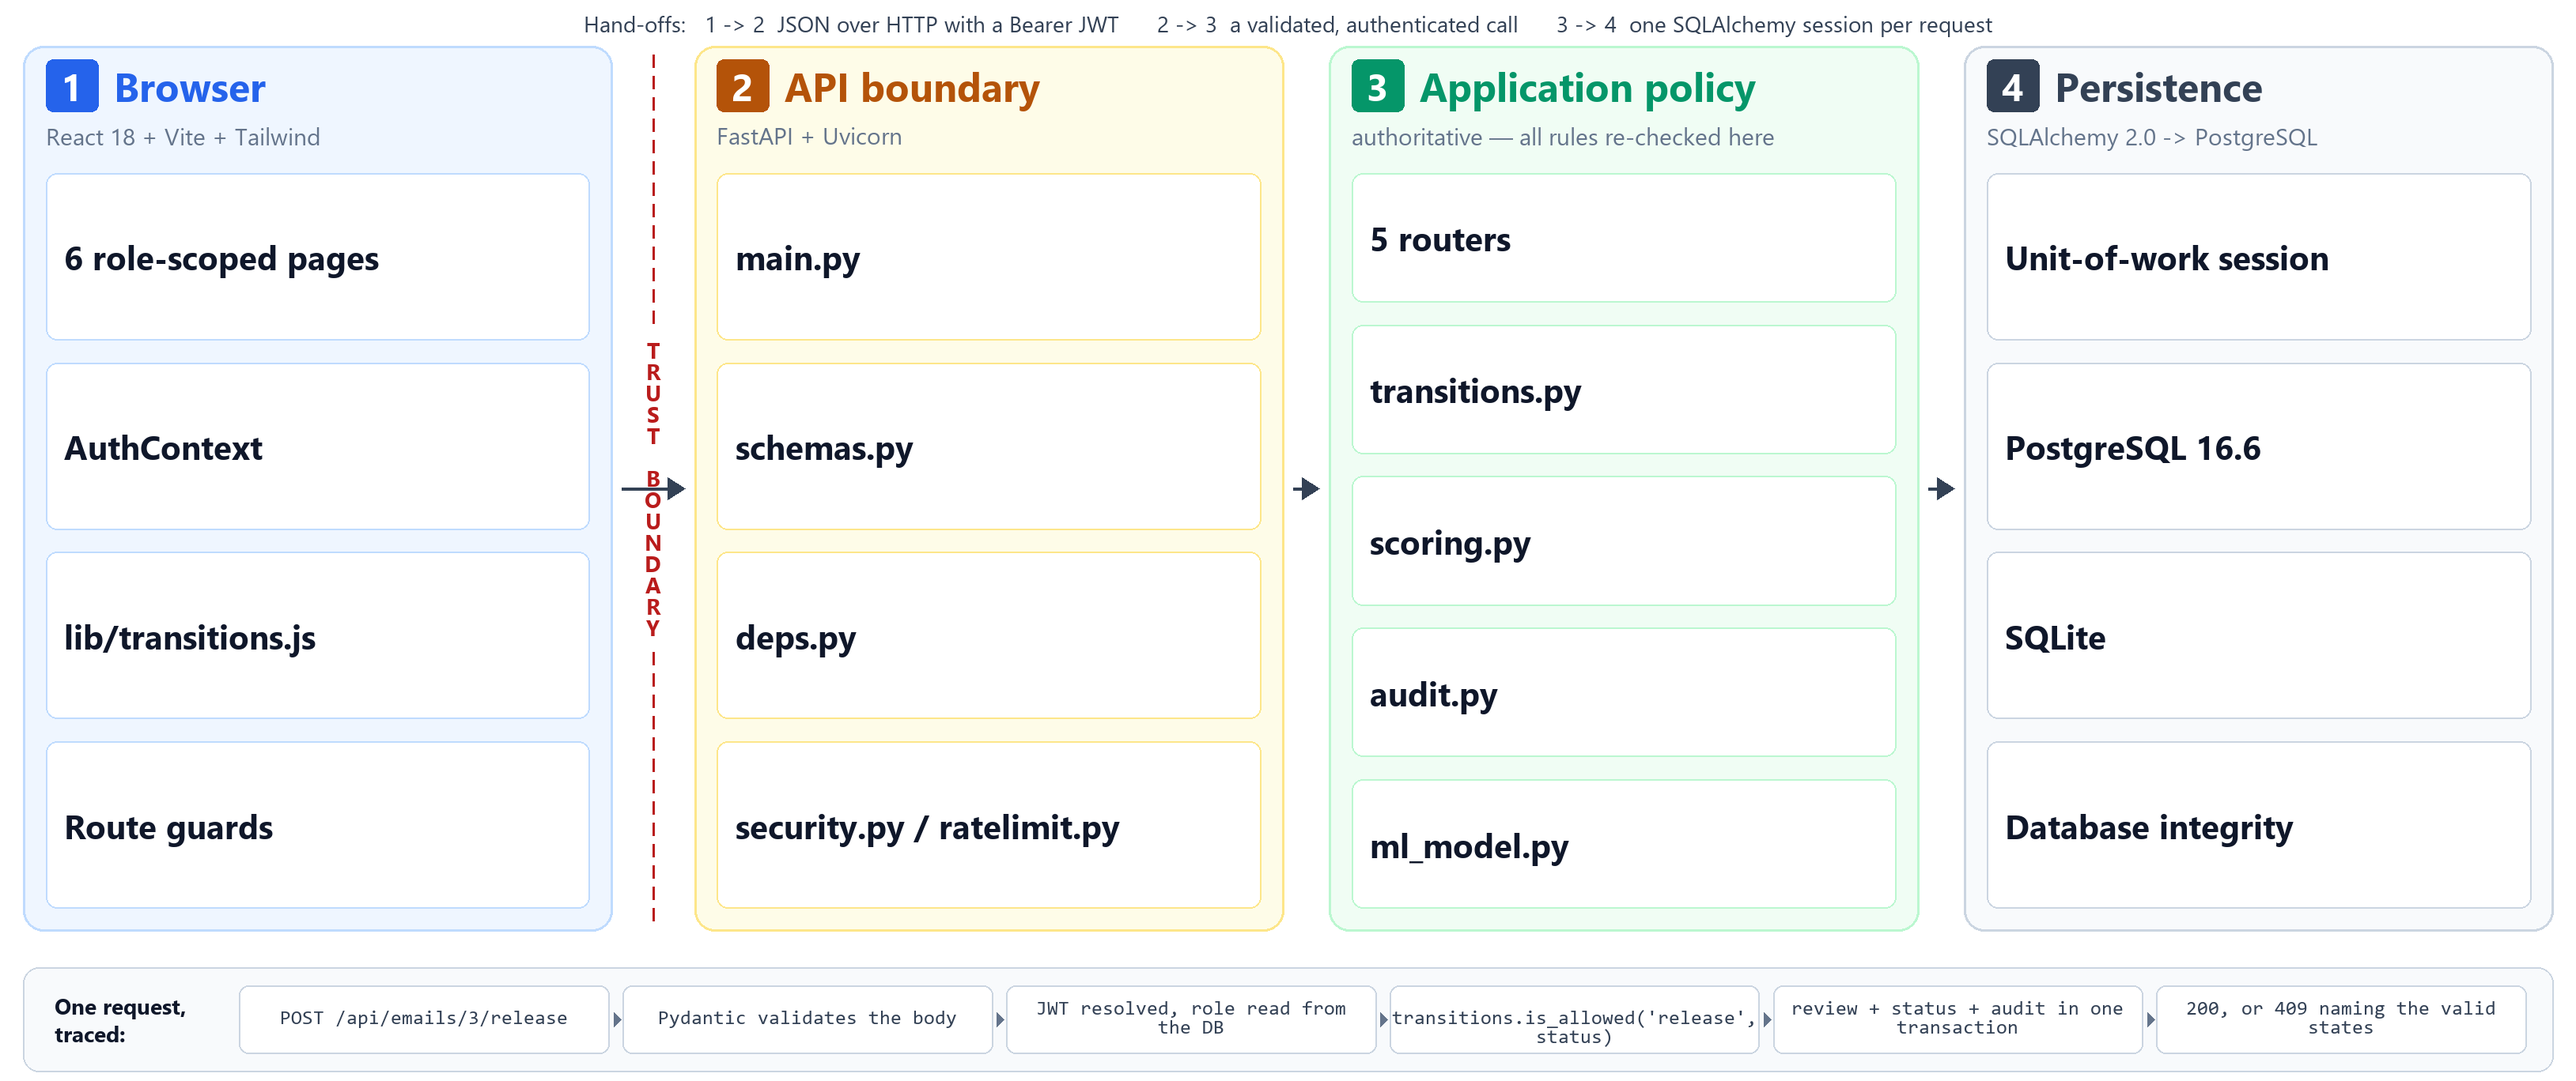
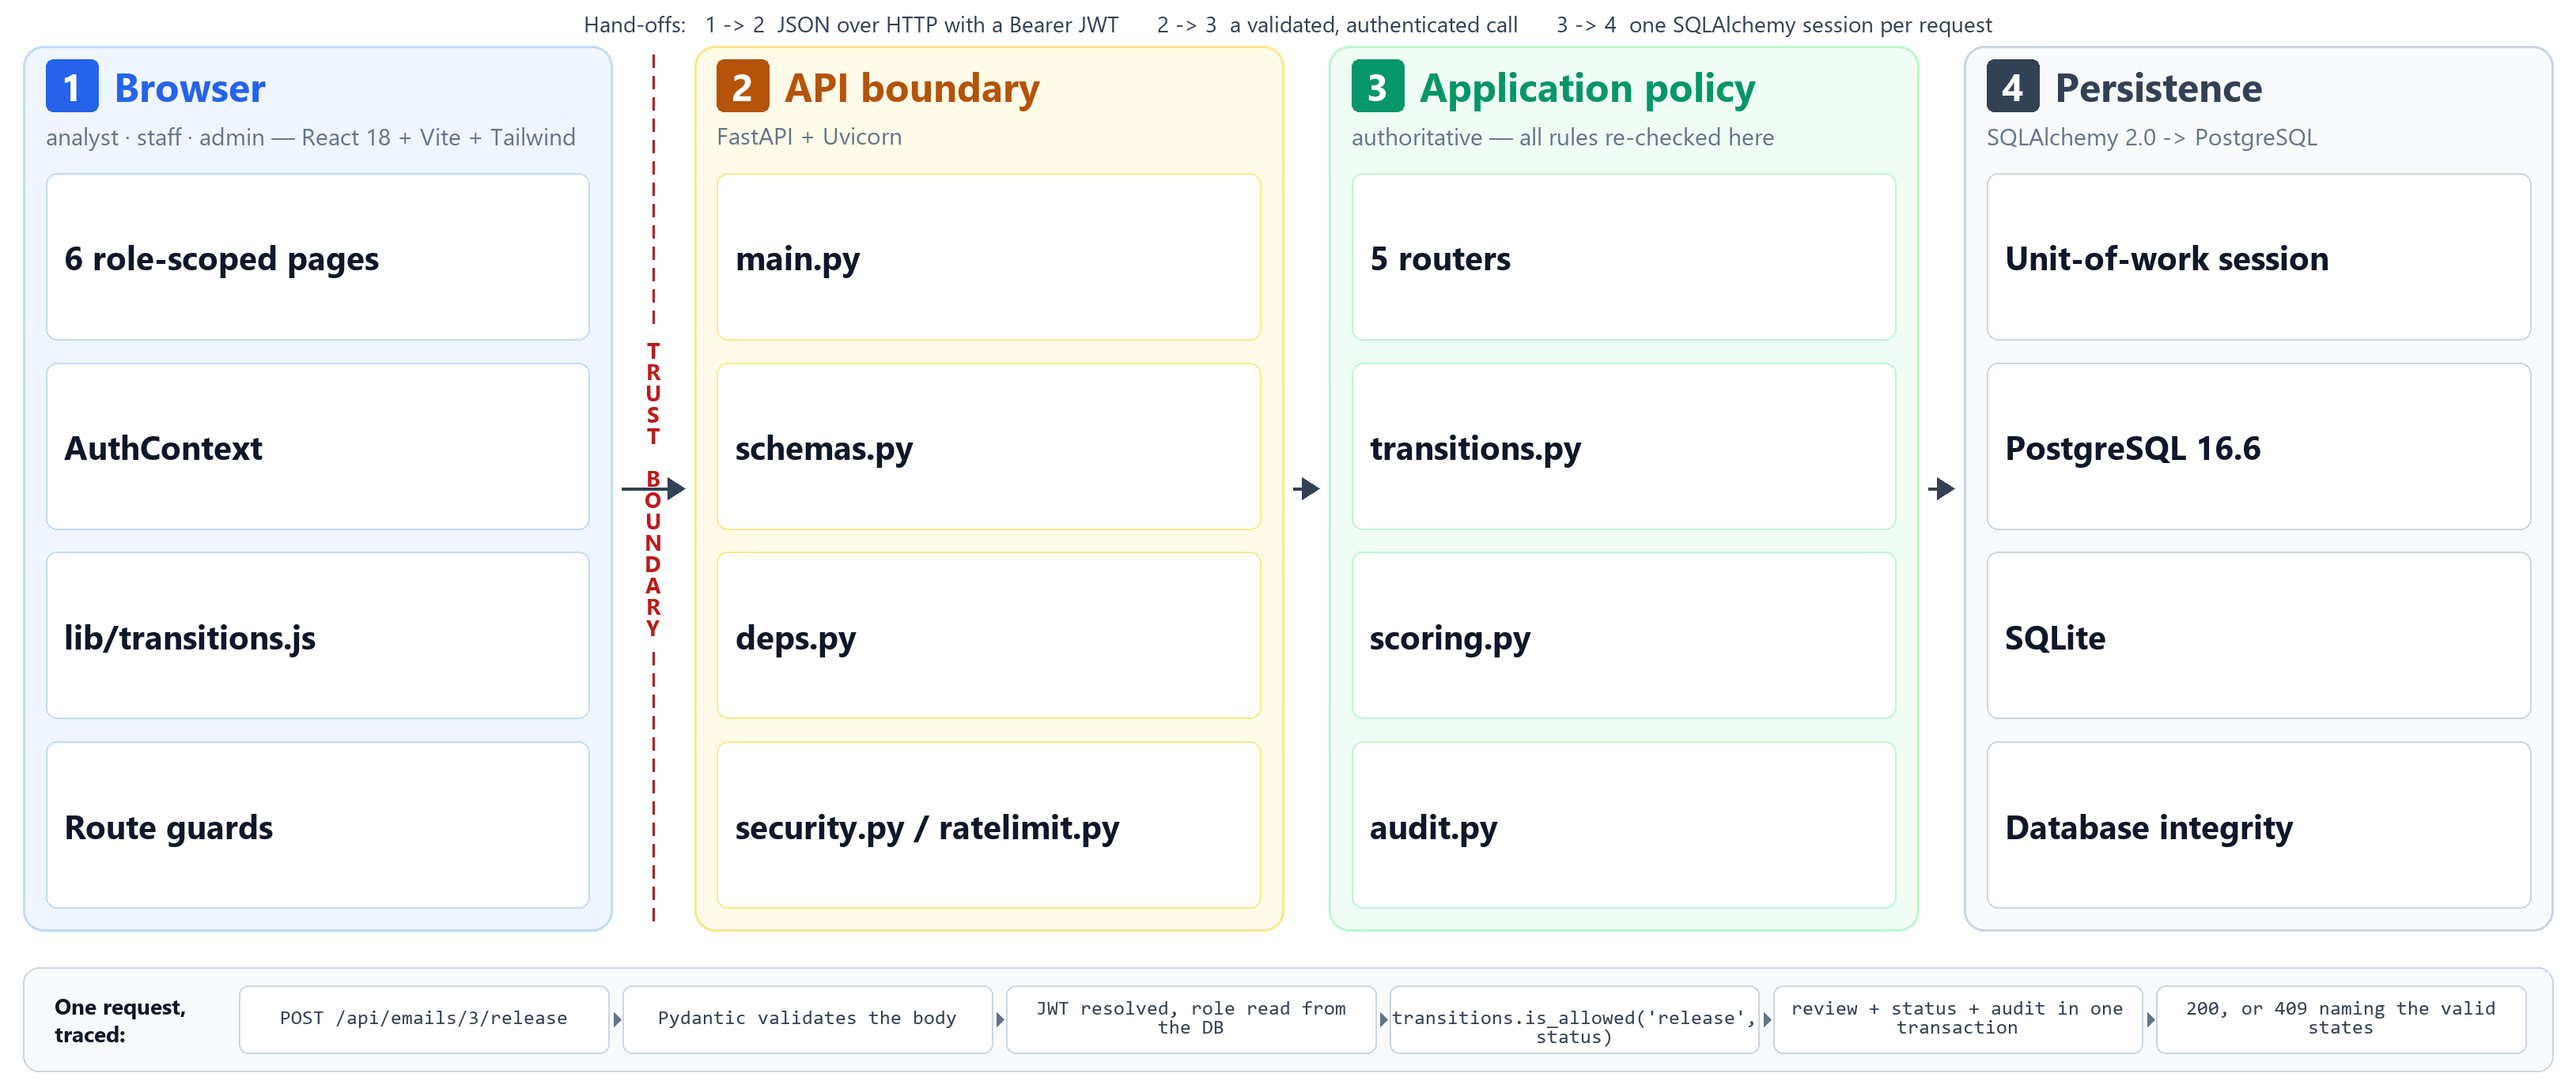
docs: show only implemented components in the architecture diagram
The diagram carried ml_model.py labelled "documented placeholder — NOT wired into
any running path". Drawing an unbuilt component inside the architecture, even with a
disclaimer, invites the reader to count it as part of the system. It is removed from
the drawing and from the ASCII diagram in ARCHITECTURE.md, and stated once as a
limitation instead.

Layer 1 now names the three roles the browser serves, so the diagram reads as the
flow it describes: browser roles, React, FastAPI routers and validation, SQLAlchemy
transactions, PostgreSQL with the SQLite fallback.

diff --git a/evidence/make_architecture_figure.py b/evidence/make_architecture_figure.py
@@ -47,7 +47,7 @@ LAYER_TINTS = [
 # Each layer: (number, name, strapline, [(title, detail), ...]).
 # `detail` is dropped in the slide variant.
 LAYERS = [
-    ("1", "Browser", "React 18 + Vite + Tailwind", [
+    ("1", "Browser", "analyst · staff · admin — React 18 + Vite + Tailwind", [
         ("6 role-scoped pages", "Login, Dashboard, Inbox, Staff Portal,\nRelease Requests, Audit Logs"),
         ("AuthContext", "holds the session; revalidates it\nthrough /api/auth/me on load"),
         ("lib/transitions.js", "mirrors the server state machine so\nthe UI only offers valid actions"),
@@ -59,12 +59,13 @@ LAYERS = [
         ("deps.py", "JWT -> user re-read from the DB;\nrequire_roles(...) per route"),
         ("security.py / ratelimit.py", "bcrypt with a 72-byte guard, typed\nJWTs, per-IP failed-login limit"),
     ]),
+    # Implemented components only. The unbuilt classifier is disclosed in the
+    # report's limitations, not drawn here as though it were part of the system.
     ("3", "Application policy", "authoritative — all rules re-checked here", [
         ("5 routers", "auth, emails, requests,\naudit, dashboard"),
         ("transitions.py", "the email state machine: which action\nis valid from which status"),
-        ("scoring.py", "explainable rule engine — a score,\na level and named reasons"),
-        ("audit.py", "append-only writer: every material\naction is recorded"),
-        ("ml_model.py", "documented placeholder — NOT wired\ninto any running path"),
+        ("scoring.py", "rule engine: bounded score, level and\nthe named reasons behind it"),
+        ("audit.py", "append-only writer at application level:\nevery material action is recorded"),
     ]),
     ("4", "Persistence", "SQLAlchemy 2.0 -> PostgreSQL", [
         ("Unit-of-work session", "status, review and audit rows commit\nor roll back together"),

diff --git a/docs/ARCHITECTURE.md b/docs/ARCHITECTURE.md
@@ -46,7 +46,6 @@ component named here exists in the repository at the path given.
 │  ratelimit.py  per-IP failed-login limiter                                │
 │  audit.py      append-only audit helper                                   │
 │  config.py     env-driven settings + SECRET_KEY enforcement               │
-│  ml_model.py   documented integration point — NOT wired in (see below)    │
 └───────────────────────────────┬──────────────────────────────────────────┘
                                 │  SQLAlchemy 2.0 ORM
 ┌───────────────────────────────▼──────────────────────────────────────────┐
@@ -64,12 +63,12 @@ component named here exists in the repository at the path given.
 └──────────────────────────────────────────────────────────────────────────┘
 ```
 
-**Note on the ML component.** `backend/app/ml_model.py` is a documented
-placeholder for a future DistilBERT classifier. It is **not** part of the MVP and
-is **not** called by any running code path. All risk scores in the working system
-come from the rule engine in `scoring.py`. This is stated here, in the README and
-in the report so the boundary between what is built and what is planned is
-unambiguous.
+**Limitation — no machine-learning component.** The diagram above shows only what
+is implemented. `backend/app/ml_model.py` exists as a documented integration point
+for a DistilBERT classifier that was not built: it raises `NotImplementedError` and
+no running code path calls it, so it is deliberately absent from the architecture.
+Every risk score in the working system comes from the rule engine in `scoring.py`.
+The same limitation is recorded in the README and in the report.
 
 ---
 
@@ -82,7 +81,7 @@ The primary user journey — the one demonstrated in the walkthrough — is:
     POST /api/emails (analyst/admin)
         └─> scoring.score_email(sender, subject, body, sender_name)
               returns score 0-100, level, list of human-readable reasons,
-              simulated SPF/DKIM/DMARC, AI-generated flag
+              simulated SPF/DKIM/DMARC, templated-language flag
         └─> level in {high, critical} ? status = "quarantined"
                                       : status = "inbox"
         └─> INSERT email_records
